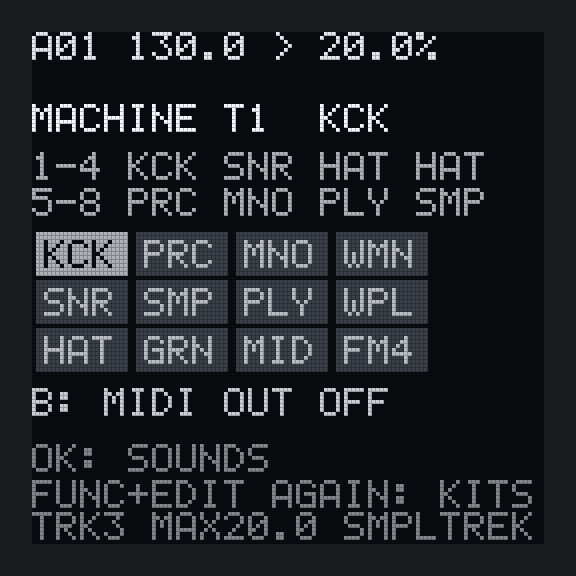
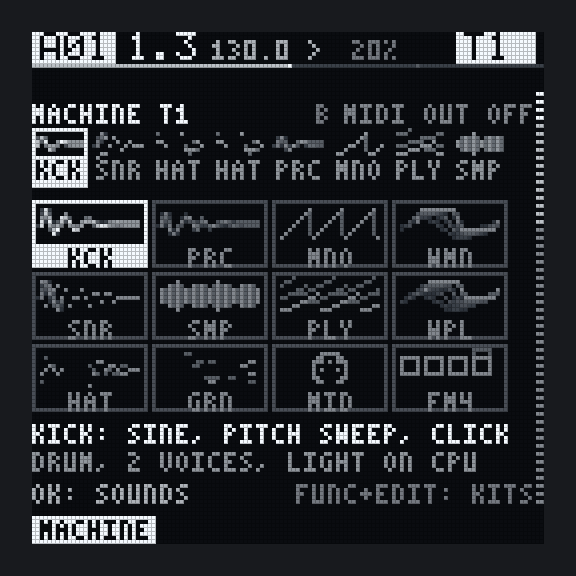
docs, scenario_visuals: PROJECT and MACHINE redesign (draw 1.28 / 2.50 ms)
scenario_visuals runs twice more, ending on PROJECT and on MACHINE, so
their draw() figures are checked against the 5 ms limit. SCREENS.md gets
both screens' rows; BUDGET, FEATURES, CHANGELOG, CHEATSHEET, MANUAL and
UNIT_CHECKLIST (W44) follow; docs/screens' project, machine and overview
redrawn.

diff --git a/docs/SCREENS.md b/docs/SCREENS.md
@@ -14,7 +14,9 @@ another, small labels end by x 125, two small labels on a line keep 2 blank pixe
 ## Rules every screen keeps
 
 - **Drawn from what the audio side publishes** (`Status`, the scope ring) or from settings. Nothing
-  in draw() walks a pattern's memory beyond the page on screen, a sample, or a file.
+  in draw() walks a pattern's memory beyond the page on screen, a sample, or a file. PROJECT's
+  slots are the one exception, and spread it out: five patterns' steps and one bank's "holds a
+  pattern" bits a frame, into a cache (below).
 - **Stopped, a screen holds still and still looks right**: pictures are drawn from their knobs;
   analysers (spectrum, scope, meters) sit at rest; nothing moves on a timer of its own. Moving
   parts come from the audio side (an LFO's phase, a grain, a note's envelope) or from the running
@@ -93,10 +95,42 @@ Pictures by page and machine:
 | MST | the draft: knob line (DJ CMP LIM); the spectrum, 24 bands of 5 px (4 lit) in rows 26-59, every other row, bright at the top, peaks held 12 frames; 100 / 1K / 10K at y 63; the vectorscope 42 x 42 at (0, 70), mid up and side across, afterglow; CMP's reduction and LIM falling from the top of two bars (x 50, 68; rows 72-109); GR and LUFS (momentary, K-weighted, 400 ms, from the scope history at 24 kHz) at x 88; LVL at (88, 106) |
 | EQ | FLT's frame with the kill EQ's curve (a shelf under 250 Hz, a bell, a shelf over 2.5 kHz; KILL 30 dB down), A B C on it, a lit `KILL` over a thrown band |
 
+## PROJECT's slots (app/ui_pickview.hpp)
+
+| Rows | What |
+| --- | --- |
+| 18 | the project's name; at the right what the card side is doing (`SAVING 40%`), NO CARD, the last error, or `UNSAVED` |
+| 25 | `KEY` and the key (`C# MIXOLYDIAN`); at the right `Q` and the queue mode, and `CHAIN` while it plays |
+| 32 | `SMP`, a mark a track (full: loaded; hollow: streamed; a dash: loading; a cross: failed; a dot: none) and the pool (`9/64M`); at the right `BANK A 5/16`, the shown bank and how many of its slots hold a pattern |
+| 39 | the eight banks' letters, each over its block, the shown one lit, a bank holding nothing dim |
+| 46-56 | the map: each bank a block of 4 x 4 cells (2 x 2 px, 3 apart) laid out as the tiles below. Dim (2): empty; grey (7, 9 in the shown bank): holds a pattern; white: playing; blinking with the clock's eighths: queued |
+| 61-115 | the shown bank's sixteen tiles, 29 x 13, 30 and 14 apart: the number (a lit badge when it plays) and the pattern's steps as 16 columns by 8 track rows (a 64-step track folds four steps a column); the playing one brighter with a playhead column (the selected track's step) while running; a queued one's underline blinking; the cursor a white frame; an empty slot dotted with `--` |
+| 121 | tabs: SLOT CHAIN PAT SETUP PROJS |
+
+A pattern is a few KiB, so the map and the tiles draw from a cache (`refresh_slot_cache`): the
+shown bank's tiles are read four a frame and the playing one every frame, the shown bank whole
+when it changes, and every other bank's bits one bank a frame: 400 ms for the whole map.
+
+## MACHINE (app/ui_pickview.hpp)
+
+| Rows | What |
+| --- | --- |
+| 18 | `MACHINE T1`; at the right `B` and MIDI OUT (`OFF`, `CH 10`), lit when a MID track sends nowhere |
+| 24-38 | the kit: a cell a track (15 px), its machine's picture (12 x 6) and name; the selected track framed, its name a badge |
+| 42-94 | the twelve machines, 29 x 17 tiles in columns of three as the arrows walk them: a picture of the sound (25 x 8) over the name; the track's framed with its name lit |
+| 98, 105 | what the track's machine is (`KICK: SINE, PITCH SWEEP, CLICK`) and what it costs (`DRUM, 2 VOICES, LIGHT ON CPU`, `6 VOICES OF THE SHARED 12`) |
+| 113 | OK's action (`OK: SOUNDS`, `OK: PICK SAMPLE`); `FUNC+EDIT: KITS` at the right |
+
+The pictures (`machine_icon`): KCK a sine sweeping down and dying; SNR a short tone and a burst of
+noise; HAT a closed and an open tick of noise; PRC an FM ring; SMP bars of a recording; GRN a cloud
+of grains; MNO a saw; PLY three saws stacked; MID a five-pin socket; WMN and WPL frames of a table
+turning from sine to square (four for WPL); FM4 four operators, the last with its feedback loop.
+They are drawn from their shapes and do not move.
+
 ## The other screens
 
 Lists (KIT, SOUNDS, SAMPLES, PROJECTS, MENU, the slot menu, CHAIN, PATTERN) and the setting screens
-(SETUP, RESAMPLE, KEYS, MACHINE, PROJECT, name entry) keep their rows in Enaga's font, which
+(SETUP, RESAMPLE, KEYS, PROJECT's other pages, name entry) keep their rows in Enaga's font, which
 reads at arm's length, in the drafts' language around them: the caption in the small font at
 y 18, the cursor's row a lit bar with its text dark (`list_row`), hints in the small font at
 y 97, 105 and 113. CHAIN draws the song as a strip (y 92): each entry as wide as its repeats, the

diff --git a/docs/UNIT_CHECKLIST.md b/docs/UNIT_CHECKLIST.md
@@ -1,6 +1,6 @@
 # Unit checklist
 
-The first part is **the walkthrough** (W1-W43, about 130 minutes): everything merged since v0.1.0,
+The first part is **the walkthrough** (W1-W44, about 133 minutes): everything merged since v0.1.0,
 in an order that plays from one item into the next. Report back by number, for example
 `W3 fail: reads 055`. After it comes **the full walkthrough**, first written for the v0.1.0 card
 on 2026-11-22: the PC runs (E1-E16), a section per feature with the deeper checks and the U
@@ -512,6 +512,15 @@ hit, a 44.1 kHz loop and a long stem (a minute or more). Beat stopped, A01.
   shows the track's lane with step 1 bracketed. SETUP's `DRW ____ MS` with MST up while
   playing. `____`
 
+**W44. PROJECT's slots and MACHINE as pictures (3 min).** Beat playing, A01.
+- PROJECT: eight blocks A-H at the top, A's letter lit; A01's cell white, the slots holding a
+  pattern grey. Under them A's sixteen tiles show their steps, and a playhead runs across A01's.
+  Move the cursor to A02 and press OK: its cell and underline blink until it plays. The pad-row
+  keys: the lit letter and the tiles follow the shown bank. `____`
+- FUNC+EDIT: the kit's eight pictures along the top, T1's framed; the twelve machines as
+  pictures, KCK's lit, and two lines on what KCK is. DOWN walks the machine and the lines follow.
+  SETUP's `DRW ____ MS` after a while on MACHINE. `____`
+
 **Done.** Reply with the numbers: `all pass`, or for example `W3 fail: reads 055`,
 `W14: MAX 61.2`.
 
@@ -693,8 +702,8 @@ The beat can keep playing. One look per screen; note any overlap or illegible te
 - [ ] GRID: four encoder slots at the bottom, name over value, the fourth fully on screen; the
       track line (`T1 ... L16 X1`) ends inside the screen.
 - [ ] EDIT: rows read like `A CUT 064` with a bar; hint `FUNC+EDIT: MACHINE` is legible.
-- [ ] MACHINE (FUNC+EDIT): the twelve machines read as columns of three, with `B: MIDI OUT`
-      below, no overlaps.
+- [ ] MACHINE (FUNC+EDIT): the twelve machines read as columns of three, with `B MIDI OUT`
+      at the top right, no overlaps.
 - [ ] MIXER: screen keys walk TRK 1-4, TRK 5-8, DCK 1-4, DCK 5-8, DUCK, DLY, DLY+, REV, REV+,
       ROUTE, MST, EQ; every page draws.
 - [ ] PERFORM (FUNC+MIXER): macro gauges stop above the hint lines; selected macro shows `>A`.
@@ -799,7 +808,7 @@ so a fault here may be Enaga's (see "Expect to find Enaga bugs"). **Unplug USB f
 release, `192f03f`). Synth or monitor on channel `____`.
 
 - [ ] Track 6 (bass), FUNC+EDIT: the page shows the machines in columns of three and
-      `B: MIDI OUT OFF`. Turn B to your synth's channel: `B: MIDI OUT CH n`. The bass line plays on
+      `B MIDI OUT OFF`. Turn B to your synth's channel: `B MIDI OUT CH n`. The bass line plays on
       the synth **and** on STRATA, note for note. Each note ends (no hanging notes); long LEN steps
       hold longer on the synth.
 - [ ] UP/DOWN to `MID`: STRATA's bass stops, the synth keeps playing it. LOAD drops (one track

diff --git a/docs/FEATURES.md b/docs/FEATURES.md
@@ -39,6 +39,7 @@ UNIT_CHECKLIST.md's ~550 boxes, 4 are ticked.
 | Shared budget of 12 VA POLY voices across all tracks; quietest voice choked with a 64-frame fade | v0.1.0 | ○ ("The shared VA POLY voice budget") | 12 is provisional until U1/U2 on the unit |
 | Every screen fits Enaga's 5x7 font (layout test over every screen) | v0.1.0 | ◐ (overlaps seen at first boot, fixed in PR #7) | |
 | **Screen frame**: top line with bar.beat, progress line, live strip of what is off rest, master meter with held peak and limiter light | #144 | ○ (W26) | The meter is 2 px wide; nothing may draw past x 124 |
+| **PROJECT's slots and MACHINE redrawn to the drafts** (docs/SCREENS.md): a map of all 128 patterns (empty, used, playing, queued) and each of the shown bank's sixteen drawn as its steps; MACHINE's kit as pictures, every machine a picture of its sound, what it is for and what it costs | this PR | ○ (W44) | draw() 1.28 ms PROJECT, 2.50 ms MACHINE (emulator, cl6x) |
 | **EDIT and MIXER redrawn to the drafts** (docs/SCREENS.md): EDIT's knob line and a picture on every page of every machine; MIXER's eight-strip desk, duck, DLY, REV, ROUTE, MST with LUFS, EQ curve; lists with a lit cursor, the step page's lane, CHAIN's strip | #174 | ○ (W43) | draw() see docs/BUDGET.md "The screen"; GRID and PERFORM unchanged |
 | **Screens rebuilt to the mockups**: frame (badges, toasts, tabs), PERFORM, GRID, EDIT (graph rows 50-117, filter response, LFO trail, WAVE LIVE, GRAIN cloud), MIXER master (spectrum, vectorscope, CMP/LIM bars) | #171 | ○ (W42) | draw() 1.71 ms on PERFORM, 1.20 ms on MST (emulator, cl6x). Knob values stay in the 5x7 font; no LUFS (the page shows the peak) |
 | **Live screens 6**: MIXER MST/EQ spectrum (24 bands, peak dots) and vectorscope; live meters beside the faders | #170 | ○ (W41) | draw() 1.21 ms on MST (emulator, cl6x) |

diff --git a/docs/CHEATSHEET.md b/docs/CHEATSHEET.md
@@ -273,7 +273,7 @@ CC 120/123 let go of held notes. Program change 1-128 on your MIDI CH queues pat
 | Step page | `TRIG` `TRIGLESS` `OFF`, `LOCKS n` | What the step is and how many locks it holds |
 | Hold STEP | `S5 CUT 64>90` / `S5 CUT 64 KIT` | The step's lock against the kit value; bars show the lock, a hollow tick the kit value |
 | GRID cells | dot / cut corner / teeth / outline | Locks / top-left condition, top-right probability / ratchet / trigless |
-| PROJECT | `BANK A   END CHAIN` | Shown bank, queue mode, chain running |
+| PROJECT | `Q END CHAIN`, `BANK A 5/16`, the map A-H | Queue mode, chain running; the shown bank and how many of its slots hold a pattern; every bank's slots (grey: used, white: playing, blinking: queued) |
 | CHAIN | `CHAIN 3/64 ON SONG`, `>02 A05 X2 M3 PLAY` | Entries used, chain on/off, plays once (SONG) or loops; cursor, entry, pattern, repeats, mute state recalled at its start, playing now |
 | PATTERN | `>LEN 16 STEPS`, `SWG 54%`, `FEEL DRIFT 3`, `3 PAT`, `>5 66%` | Master length; swing; FEEL; a track following SWG or with its own (`>` = field VALUE changes) |
 | EDIT LFO | `NOW CUT 87`, `NOW CUT 87 ONE-SHOT`, `LFO OFF: SET DEP+DST` | The destination's value right now, and TRIG unless FREE; DEP or DST is zero |

diff --git a/CHANGELOG.md b/CHANGELOG.md
@@ -202,6 +202,15 @@ One home per job (backlog D1, D2, D5). Old projects open unchanged: no file hold
 
 ### Changed
 
+- **The pattern and machine screens are pictures.** PROJECT's slots show all 128 patterns as a
+  map, a block of 4 x 4 per bank: which hold a pattern, which plays and which is queued (it blinks),
+  in every bank at once. Under it the shown bank's sixteen are drawn as their steps, eight track
+  rows by sixteen columns, the playing one with its playhead. The key, the queue mode, the sample
+  pool and how many of the bank's slots are used sit in two small lines at the top, and the page
+  tabs (SLOT CHAIN PAT SETUP PROJS) at the bottom. MACHINE (FUNC+EDIT) draws the kit as eight
+  pictures, every machine as a picture of its sound (the kick's falling sine, the hats' noise, the
+  saws, the wavetable's frames, FM4's operators), and says what the track's machine is for and what
+  it costs in voices and CPU.
 - **EDIT and MIXER look like the drafts.** EDIT's four knobs are one line in the small font at the
   top (D at the bottom), and the picture takes the screen on every page of every machine: a drum's
   SRC draws the hit its knobs make and lights it as it plays; FLT draws the filter's curve over the

diff --git a/docs/BUDGET.md b/docs/BUDGET.md
@@ -120,9 +120,12 @@ draw() now times itself over 64 frames (app/ui_screen.hpp, `count_draw_time`): S
 | the same, drawn once a table into a cover map and shaded each frame (`build_waterfall`) | **1.35 ms** | emulator, cl6x, no caches |
 | EDIT ENV on VA MONO: the amplitude's envelope and the filter's under it | **1.09 ms** | emulator, cl6x, no caches |
 | MIXER desk (eight strips) / REV's tail / EQ's curve over the spectrum | **0.32 / 0.78 / 1.39 ms** | emulator, cl6x, no caches |
+| PROJECT's slots: the 128-pattern map (a bank read a frame), sixteen tiles of steps (five read a frame) | **1.28 ms** | emulator, cl6x, no caches |
+| MACHINE: the kit's eight pictures and the twelve machines' | **2.50 ms** | emulator, cl6x, no caches |
 
 `scenario_visuals` runs the emulator twice from part 6 on, once ending on PERFORM and the LFO page
-and once on MST, because the draw log comes once a run.
+and once on MST, because the draw log comes once a run; four times since the PROJECT and MACHINE
+redesign, which added a run ending on each.
 
 Part 3 is draw-side only: all 36 scenarios pass with cl6x, `ambient` read 31.54% against
 31.16% for part 2 in an earlier run of the same session, the usual +-0.5 of where the peak

diff --git a/docs/MANUAL.md b/docs/MANUAL.md
@@ -817,8 +817,8 @@ FBK costs a little more CPU than FBK 0.
 
 MID makes no sound of its own. It is for a track whose sound is an outboard synth, a drum
 machine or a modular: the track's notes go to MIDI OUT and STRATA spends no voice and no CPU on
-them. Give the track a channel first (MACHINE, encoder **B**); MACHINE shows `B: MIDI OUT OFF`
-brightly on a MID track that has none, because then it does nothing at all.
+them. Give the track a channel first (MACHINE, encoder **B**); MACHINE shows `MIDI OUT OFF` lit
+at the top right on a MID track that has none, because then it does nothing at all.
 
 | Page | A | B | C | D |
 | --- | --- | --- | --- | --- |
